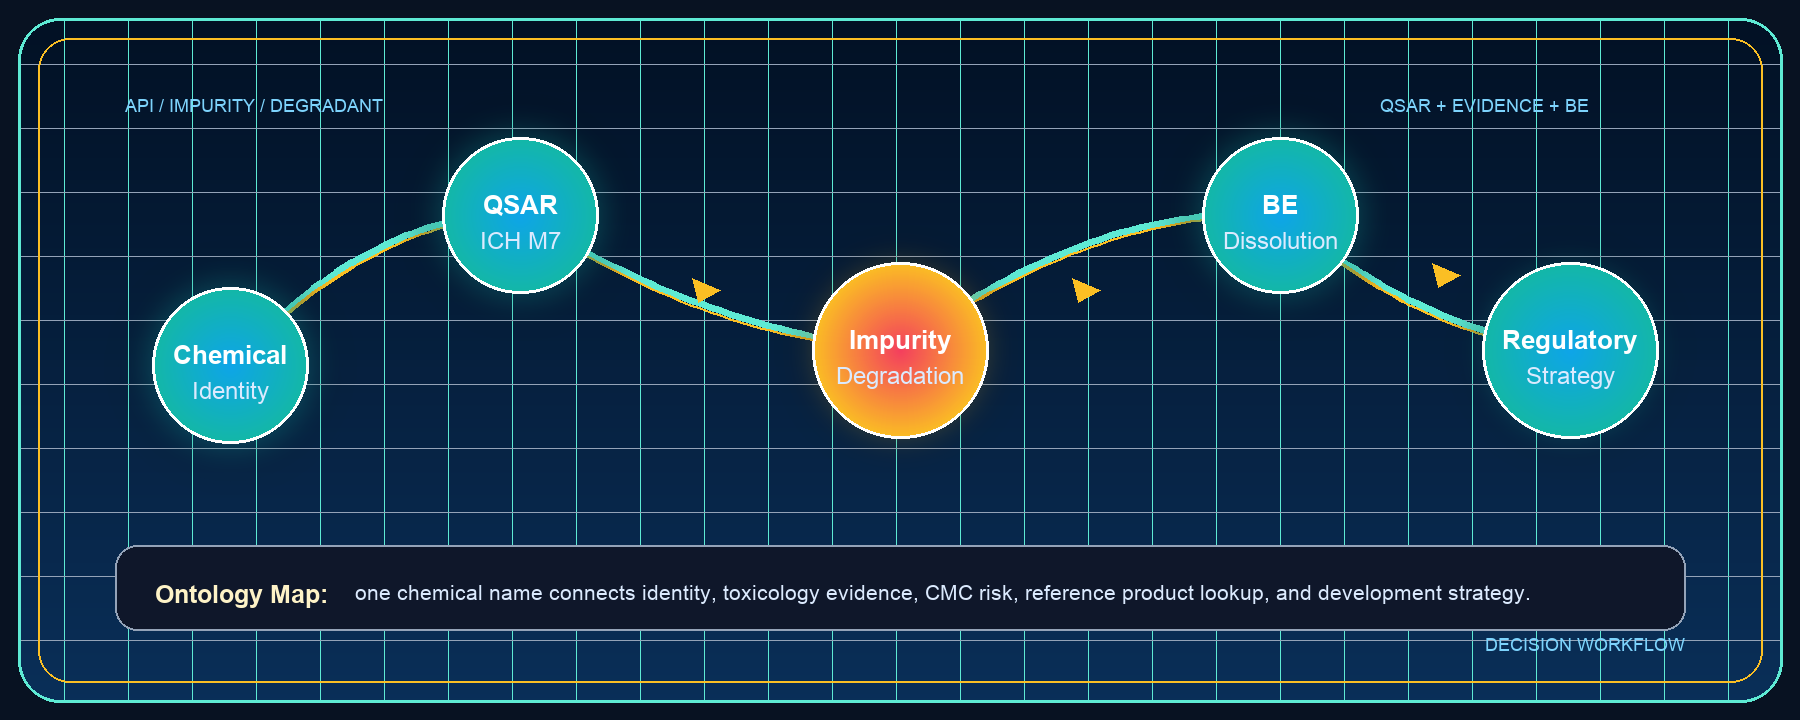
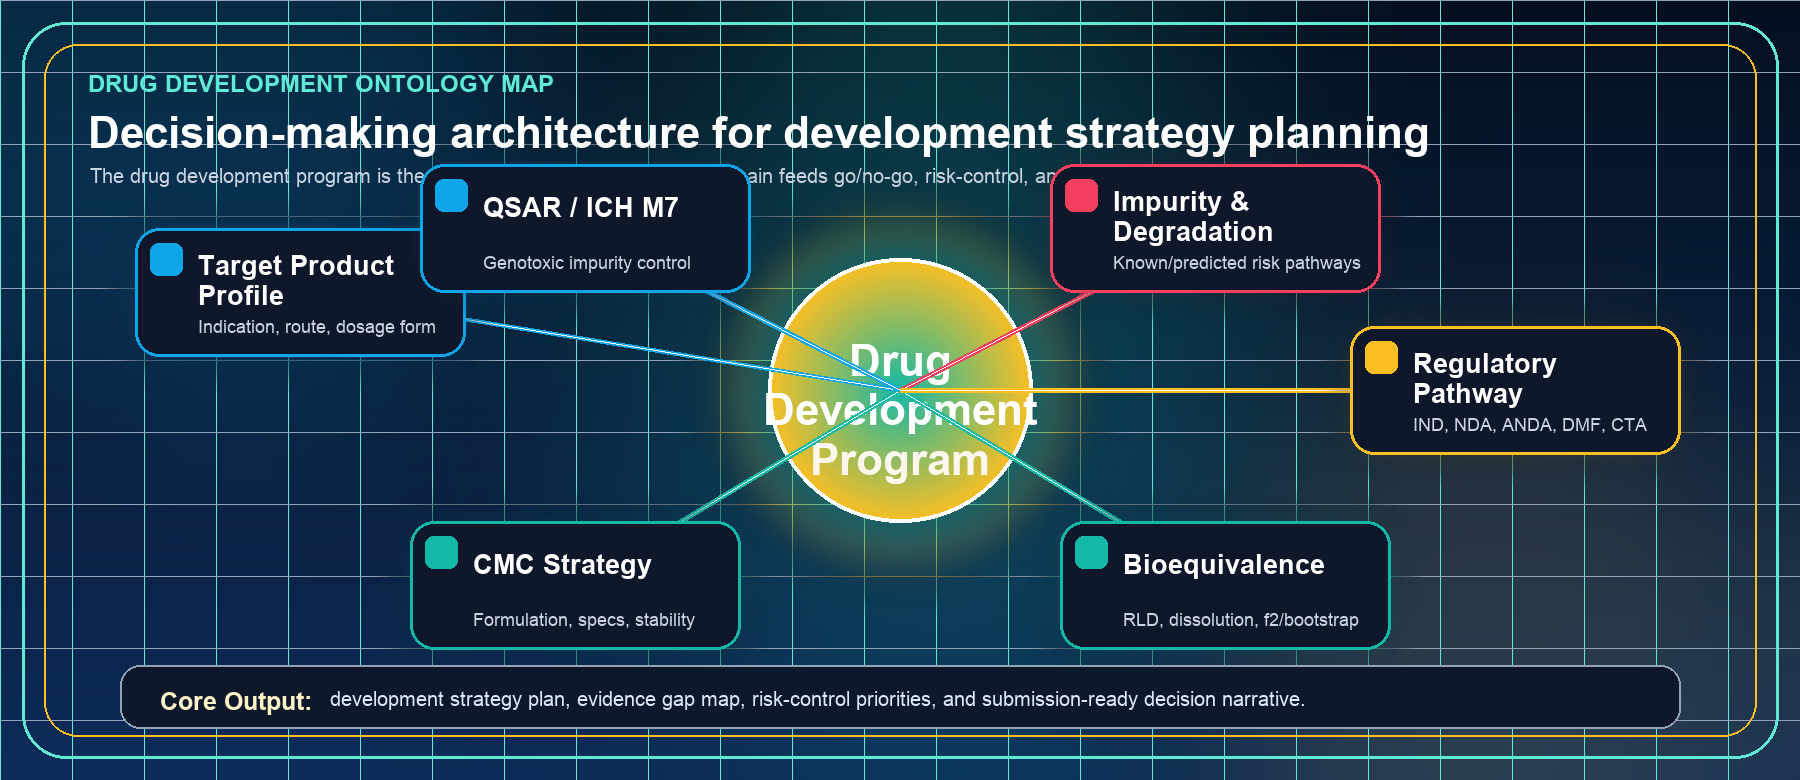
ui: center ontology map on drug development program

diff --git a/streamlit_app.py b/streamlit_app.py
@@ -8,8 +8,11 @@ import os
 import urllib.parse
 import requests
 
-# Add the current directory to sys.path
-sys.path.append(os.path.dirname(os.path.abspath(__file__)))
+# Add the current directory AND the root directory to sys.path
+current_dir = os.path.dirname(os.path.abspath(__file__))
+root_dir = os.path.dirname(current_dir)
+sys.path.append(current_dir)
+sys.path.append(root_dir)
 
 try:
     from core.regulatory import (
@@ -1455,9 +1458,9 @@ def render_landing_page():
                 <h1 class='landing-title'>ToxiGuard-Platform</h1>
             </div>
             <div class='landing-subtitle'>
-                A connected decision workflow for ontology-guided development strategy,
-                ICH M7/QSAR genotoxicity review, impurity and degradation evidence,
-                and FDA-oriented bioequivalence planning.
+                A drug-development decision architecture that turns product identity,
+                CMC risk, QSAR/ICH M7 evidence, impurity/degradation knowledge,
+                and bioequivalence planning into a development strategy plan.
             </div>
             <div class='ontology-stage'>
         """,

diff --git a/toxiscope_app.py b/toxiscope_app.py
@@ -1455,9 +1455,9 @@ def render_landing_page():
                 <h1 class='landing-title'>ToxiGuard-Platform</h1>
             </div>
             <div class='landing-subtitle'>
-                A connected decision workflow for ontology-guided development strategy,
-                ICH M7/QSAR genotoxicity review, impurity and degradation evidence,
-                and FDA-oriented bioequivalence planning.
+                A drug-development decision architecture that turns product identity,
+                CMC risk, QSAR/ICH M7 evidence, impurity/degradation knowledge,
+                and bioequivalence planning into a development strategy plan.
             </div>
             <div class='ontology-stage'>
         """,